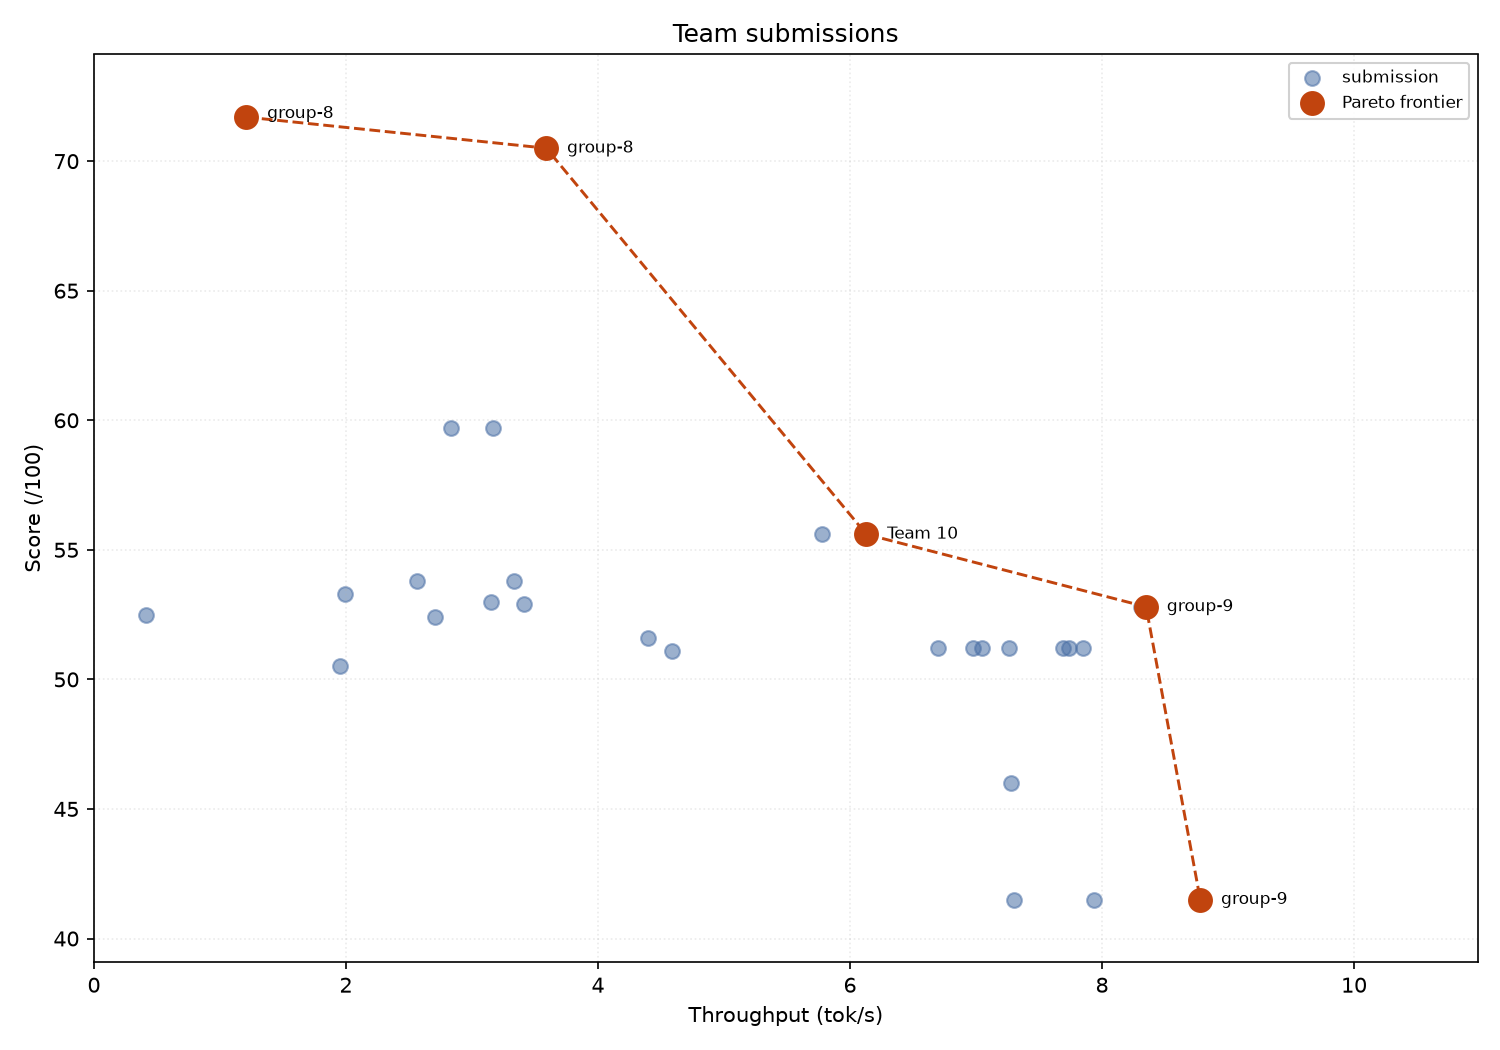
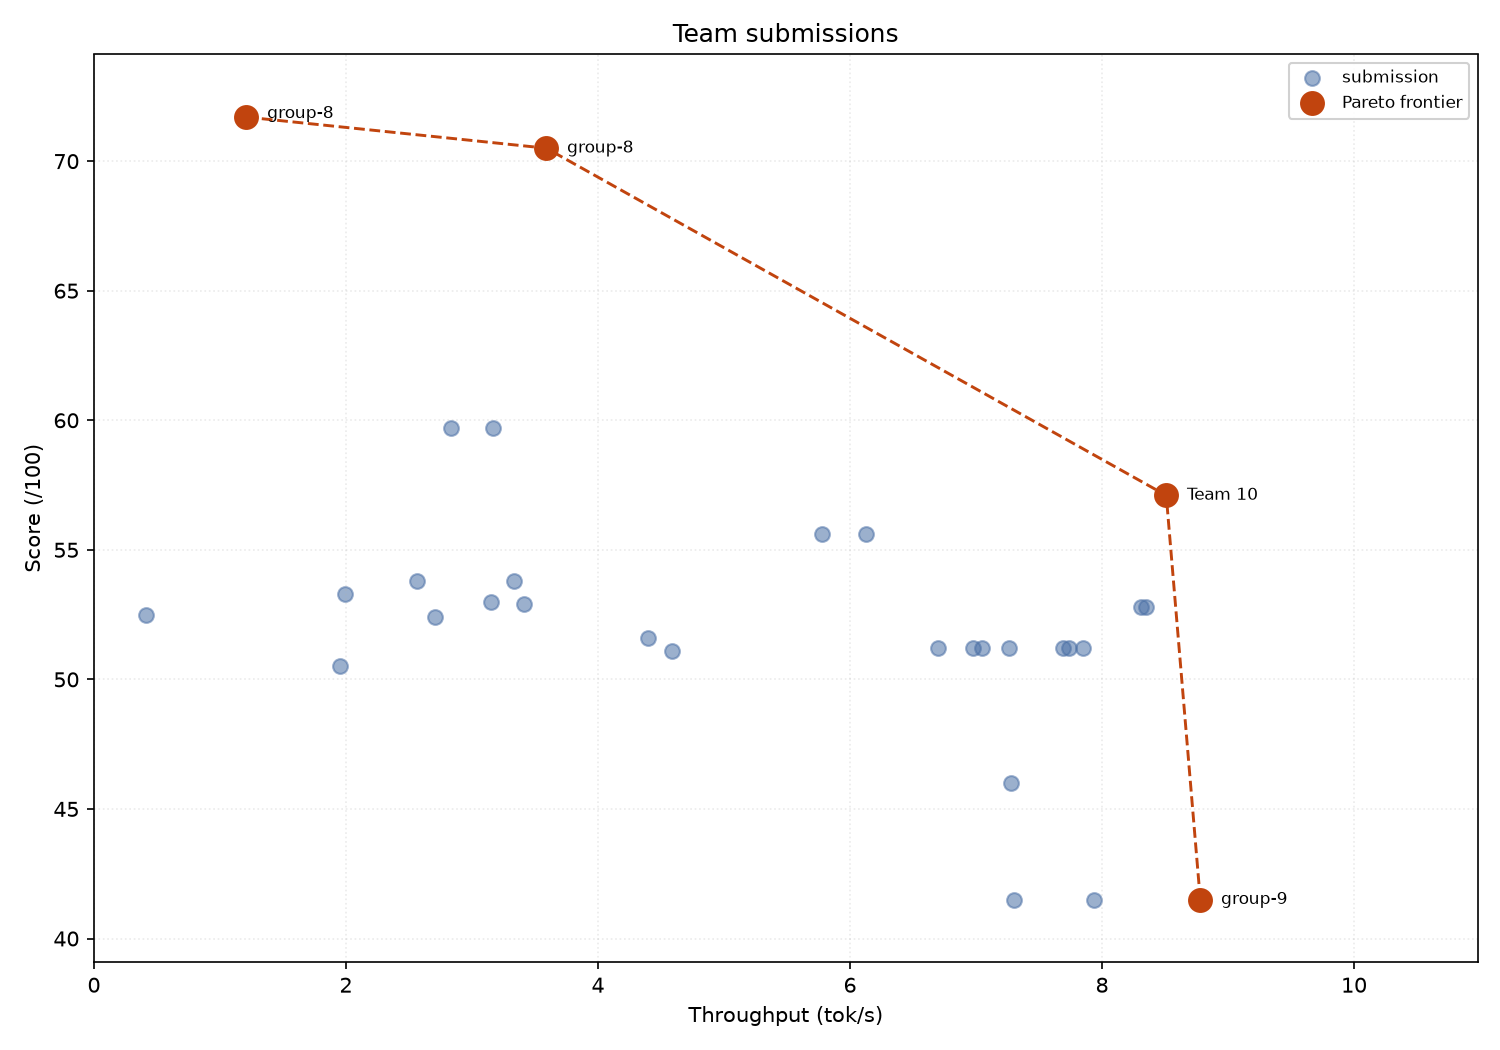
result: group-5 962c869e

diff --git a/README.md b/README.md
@@ -1,6 +1,6 @@
 # Results
 
-Generated 2026-11-17 23:08:56 UTC · 29 run(s) across 6 team(s).
+Generated 2026-11-18 02:21:30 UTC · 30 run(s) across 6 team(s).
 
 ![Pareto frontier](summary/pareto.png)
 
@@ -8,8 +8,8 @@ Generated 2026-11-17 23:08:56 UTC · 29 run(s) across 6 team(s).
 
 | team | score | tok/s | commit | frontier runs |
 | --- | ---: | ---: | --- | ---: |
-| group-9 | 41.5 | 8.78 | `8933708f` | 2 |
-| group-5 | 51.2 | 7.85 | `d61125ec` | 1 |
+| group-9 | 41.5 | 8.78 | `8933708f` | 1 |
+| group-5 | 57.1 | 8.51 | `962c869e` | 1 |
 | group-2 | 51.1 | 4.59 | `fb7ded0c` | 0 |
 | group-8 | 70.5 | 3.59 | `6e852d21` | 2 |
 | group-15 | 50.5 | 1.95 | `2a3615e8` | 0 |
